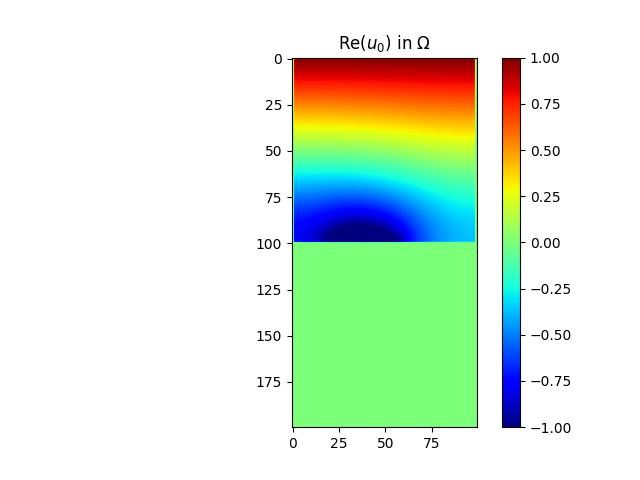
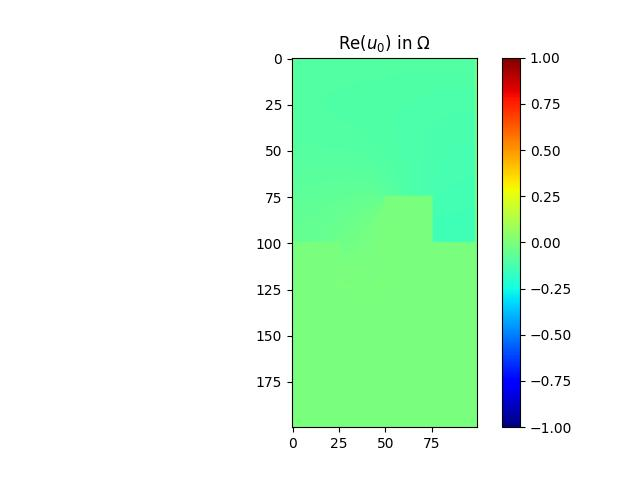
commit

Changed region(s): [[0.4375, 0.0938, 0.75, 0.5312]]

diff --git a/demo_control_polycopie2023.py b/demo_control_polycopie2023.py
@@ -27,7 +27,7 @@ def BelongsInteriorDomain(node):
                 if (node < 0):
                     return 1
                 if node == 3:
-                    print("Robin")
+                    #print("Robin")
                     return 2
                 else:
                     return 0
@@ -73,23 +73,22 @@ def compute_gradient_descent(chi, grad, domain, mu):
             c = BelongsInteriorDomain(domain[i, j + 1])
             d = BelongsInteriorDomain(domain[i, j - 1])
             if a == 2:
-                print(i+1,j, "-----", "i+1,j")
+                #print(i+1,j, "-----", "i+1,j")
 
                 chi[i + 1, j] = chi[i + 1, j] - mu * grad[i, j]
                 #print('chi1:',chi[i + 1, j])
             if b == 2:
-                print(i - 1, j, "-----", "i - 1, j")
+                #print(i - 1, j, "-----", "i - 1, j")
                 chi[i - 1, j] = chi[i - 1, j] - mu * grad[i, j]
                 #print('chi2:',chi[i - 1, j])
             if c == 2:
-                print(i, j + 1, "-----", "i , j + 1")
+                #print(i, j + 1, "-----", "i , j + 1")
                 chi[i, j + 1] = chi[i, j + 1] - mu * grad[i, j]
                 #print('chi3:',chi[i, j+1])
             if d == 2:
-                print(i, j - 1, "-----", "i , j - 1")
+                #print(i, j - 1, "-----", "i , j - 1")
                 chi[i, j - 1] = chi[i, j - 1] - mu * grad[i,j]
                 #print('chi4:',chi[i, j-1])
-    print(chi[100])
     return chi
 
 
@@ -123,11 +122,12 @@ def compute_projected(chi, domain, V_obj):
     chi = processing.set2zero(chi, domain)
 
     V = np.sum(np.sum(chi)) / S
-    debut = -np.max(chi)
-    fin = np.max(chi)
+    debut = -np.max(np.abs(chi))
+    fin = np.max(np.abs(chi))
     ecart = fin - debut
     # We use dichotomy to find a constant such that chi^{n+1}=max(0,min(chi^{n}+l,1)) is an element of the admissible space
     while ecart > 10 ** -4:
+        #print("l:",l)
         # calcul du milieu 
         l = (debut + fin) / 2
         for i in range(M):
@@ -159,47 +159,53 @@ def your_optimization_procedure(domain_omega, spacestep, omega, f, f_dir, f_neu,
         mu: float, it is the initial step of the gradient's descent;
         V_obj: float, it characterizes the volume constraint on the density chi.
     """
-
     k = 0
     (M, N) = np.shape(domain_omega)
     numb_iter = 5
-    energy = np.zeros((numb_iter+1, 1), dtype=np.float64)
-    while k < numb_iter and mu > 10**(-5):
-        print('1. computing solution of Helmholtz problem, i.e., u')
+    energy = np.zeros((numb_iter, 1), dtype=np.float64)
+    is_good = True
+    while k < numb_iter:
+        if not is_good:
+            mu *= 2
+        print(f"k={k}")
+        #print('1. computing solution of Helmholtz problem, i.e., u')
         u=processing.solve_helmholtz(domain_omega, spacestep, omega, f, f_dir, f_neu, f_rob, beta_pde, alpha_pde, alpha_dir, beta_neu, beta_rob, alpha_rob)
-        print('2. computing solution of adjoint problem, i.e., p')
+        #print('2. computing solution of adjoint problem, i.e., p')
         p=processing.solve_helmholtz(domain_omega, spacestep, omega, np.conjugate(-2*u), np.zeros_like(domain_omega), f_neu, f_rob, beta_pde, alpha_pde, alpha_dir, beta_neu, beta_rob, alpha_rob)
-        print('3. computing objective function, i.e., energy')
+        #print('3. computing objective function, i.e., energy')
         J=your_compute_objective_function(u)
         energy[k]=J
+        print("energie = ",J)
         Jprim=compute_J_prim(Alpha, u, p)
-        print('4. computing parametric gradient')
+        #print('4. computing parametric gradient')
         ene=J
         while ene >= energy[k] and mu > 10 ** -5:
             grad = Jprim
-            print('    a. computing gradient descent')
+            #print('    a. computing gradient descent')
             chi = compute_gradient_descent(chi, grad, domain_omega, mu) #chi_k+1 sans projection (l=0)
 
-            print('    b. computing projected gradient')
+            #print('    b. computing projected gradient')
             chi = compute_projected(chi, domain_omega, V_obj)
-            
-            print('    c. computing solution of Helmholtz problem, i.e., u')
+            alpha_rob = Alpha*chi
+            #print('    c. computing solution of Helmholtz problem, i.e., u')
             u=processing.solve_helmholtz(domain_omega, spacestep, omega, f, f_dir, f_neu, f_rob, beta_pde, alpha_pde, alpha_dir, beta_neu, beta_rob, alpha_rob)
             
 
-            print('    d. computing objective function, i.e., energy (E)')
-            ene = your_compute_objective_function(u)-1
-            bool_a=True
+            #print('    d. computing objective function, i.e., energy (E)')
+            ene = your_compute_objective_function(u)
+            bool_a=ene<J
             if bool_a:
                 # The step is increased if the energy decreased
                 mu = mu * 1.1
+                is_good = True
             else:
                 # The step is decreased is the energy increased
                 mu = mu / 2
+                is_good = False
+                
         k += 1
 
     print('end. computing solution of Helmholtz problem, i.e., u')
-    grad=0
 
     return chi, energy, u, grad
 
@@ -237,16 +243,17 @@ if __name__ == '__main__':
 
     N = 100  # number of points along x-axis
     M = 2 * N  # number of points along y-axis
-    level = 0 # level of the fractal
+    level = 1 # level of the fractal
     spacestep = 1.0 / N  # mesh size
 
     # -- set parameters of the partial differential equation
     kx = -1.0
     ky = -1.0
     wavenumber = np.sqrt(kx**2 + ky**2)  # wavenumber
-    omega=10000
+    omega= wavenumber
     
-    g = lambda y,omega : 0.1*np.exp(-(y**2)/8)*np.cos(omega*1)
+    #g = lambda y,omega : 0.1*np.exp(-(y**2)/8)*np.cos(omega*1)
+    g = lambda x, omega : np.exp(complex(0,1)*(kx*x+ky*0))
 
     # ----------------------------------------------------------------------
     # -- Do not modify this cell, these are the values that you will be assessed against.
@@ -286,8 +293,10 @@ if __name__ == '__main__':
     # Alpha = 10.0 - 10.0 * 1j
     # -- this is the function you have written during your project
     import compute_alpha
-    Alpha = compute_alpha.compute_alpha(N*spacestep, omega, g)
+    #Alpha = compute_alpha.compute_alpha(N*spacestep, omega, g)
+    Alpha = 4.259503502537576+0.17454478468463255j
     alpha_rob = Alpha * chi
+    
 
     # -- set parameters for optimization
     S = 0  # surface of the fractal
@@ -321,7 +330,6 @@ if __name__ == '__main__':
                            Alpha, mu, chi, V_obj)
 
     # --- en of optimization
-
     chin = chi.copy()
     un = u.copy()
 

diff --git a/processing.py b/processing.py
@@ -403,7 +403,7 @@ def solve_helmholtz(domain, space_step, omega,
     # -- set robin boundary conditions
     mat, rhs = compute_robin_condition(domain, space_step, f_rob, alpha_rob, beta_rob, beta_pde, mat, rhs)
 
-    print(mat.shape[:])
+    #print(mat.shape[:])
 
     # -- solve linear system
     sol = scipy.sparse.linalg.spsolve(mat, rhs)
